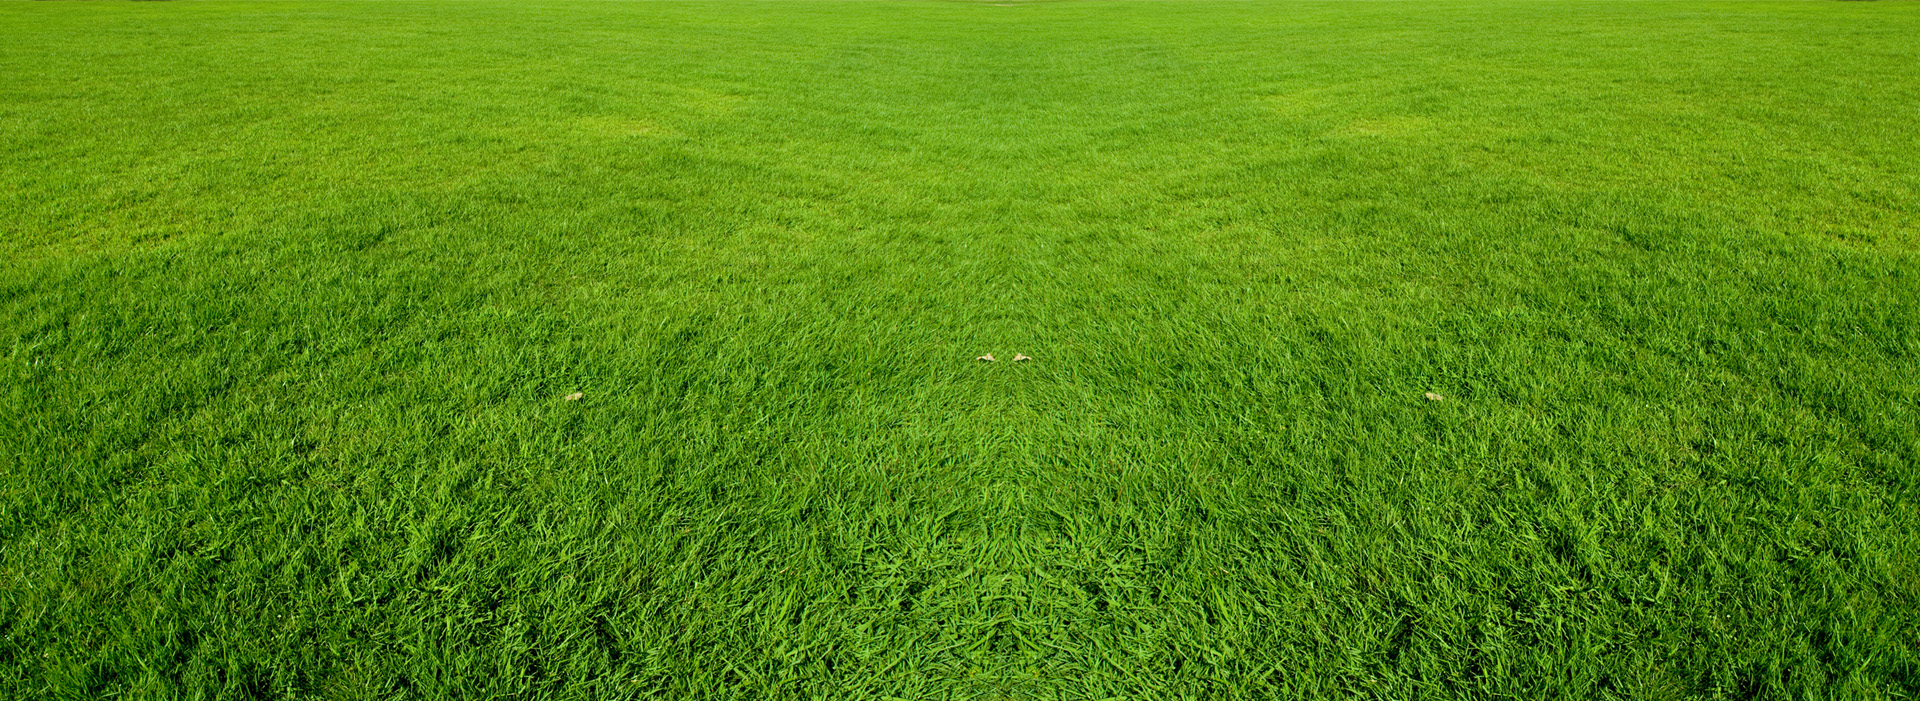
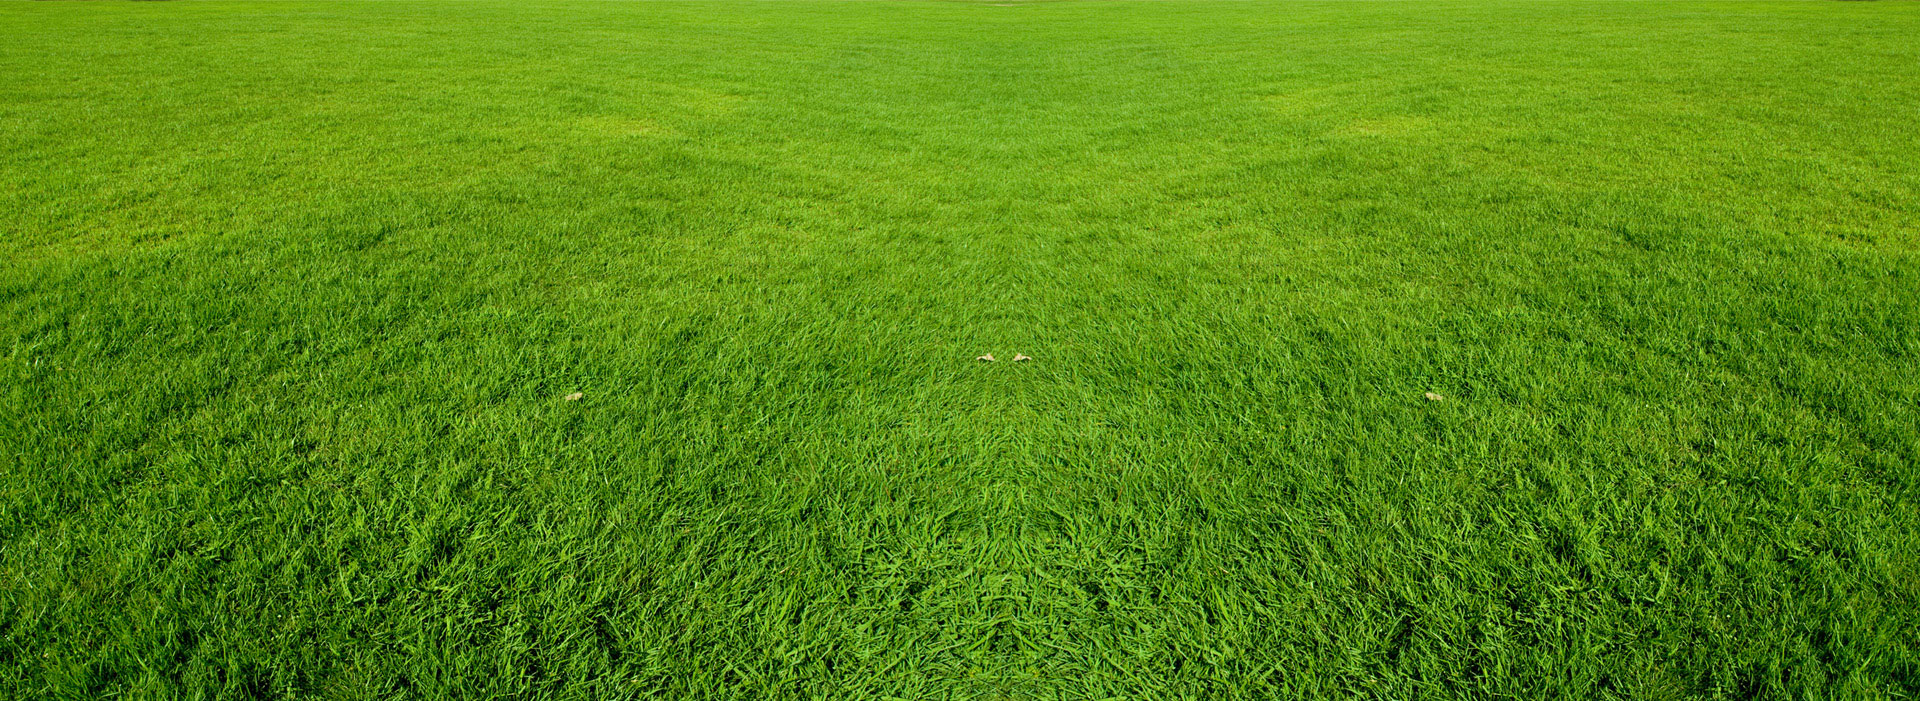
Changed image sizes to reduce load times

diff --git a/ocean.css b/ocean.css
@@ -136,7 +136,7 @@ p {
   width: 400px;
   vertical-align: top;
   display: inline-block;
-  background-image: url('Images/Ocean-instruct.jpg');
+  background-image: url('Images/ocean-instruct.jpg');
   background-size: 100%;
   border-radius: 20px;
   height: 400px;
